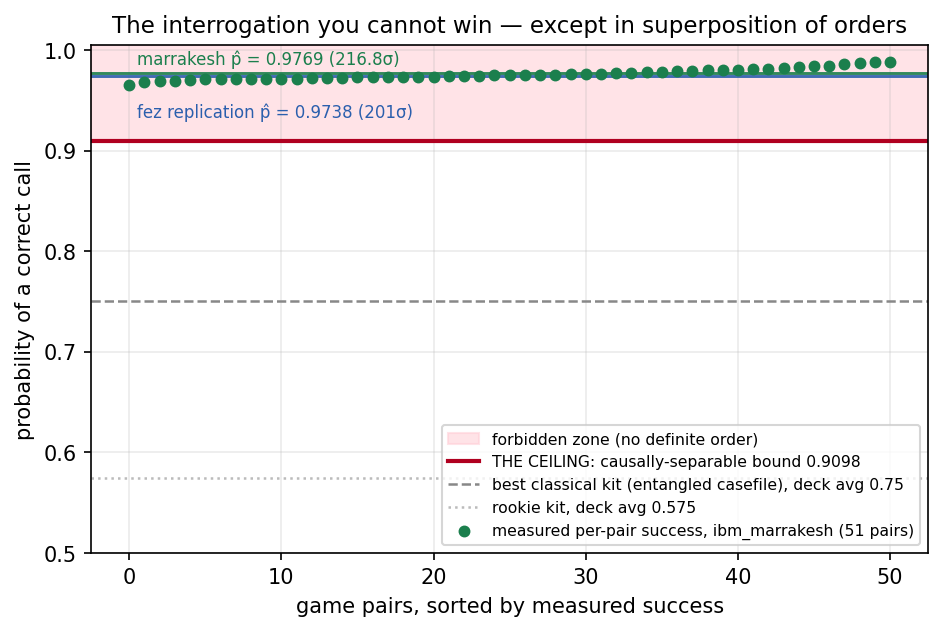
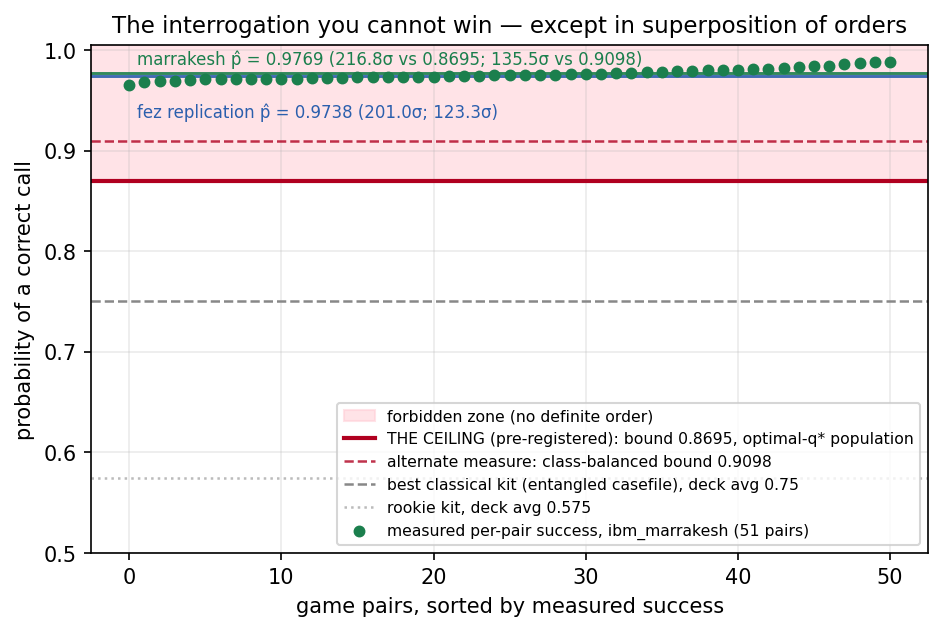
PAPER v0.4 (Whisper C4587): Elder C6443 hinge-review blockers resolved. BLOCKER 1: ONE operative ceiling — pre-registered 0.8695 (optimal-q* population) everywhere; class-balanced 0.9098 demoted to explicit alternate measure with margins vs BOTH (marrakesh 216.8sigma/135.5sigma, fez 201.0/123.3, scr

Changed region(s): [[0.3383, 0.6323, 0.9841, 0.8732], [0.0923, 0.1506, 0.9841, 0.3011], [0.4305, 0.0602, 0.6766, 0.1204]]

diff --git a/scripts/generate_figures.py b/scripts/generate_figures.py
@@ -457,27 +457,33 @@ def fig_15_causal_game_ceiling():
     """F82 (Exp105/105b): the causal-game ceiling and the measured forbidden zone.
     Per-pair points from results/exp105_hw_results.json (job d9826lkqp3as739sd2lg);
     fez replicate p_hat from exp105b (d982qssqp3as739sdmmg); classical-kit deck
-    averages computed at C4541 (theory); ceiling = class-balanced causally-separable
-    bound 0.9098 (SDP, re-derived C4524; optimal-q* game graded vs 0.8695)."""
+    averages computed at C4541 (theory). ONE operative ceiling (Elder C6443 blocker
+    fix, C4587): pre-registered 0.8695 (optimal-q* population, SDP optimum 0.869028);
+    class-balanced 0.9098 shown as SECONDARY alternate. Sigma vs both per line
+    (marrakesh 216.8/135.5; fez 201.0/123.3 — from recorded se_w, script-computed)."""
     import json as _json
     rows = _json.load(open(os.path.join(OUT, "..", "results",
                                         "exp105_hw_results.json")))["rows"]
     succ = sorted((r["p_plus"] if r["commuting"] else 1 - r["p_plus"])
                   for r in rows if r["kind"] == "game")
     fig, ax = plt.subplots(figsize=(7.2, 4.4))
-    ax.axhspan(0.9098, 1.005, color="#ffccd5", alpha=0.55, zorder=0,
+    ax.axhspan(0.8695, 1.005, color="#ffccd5", alpha=0.55, zorder=0,
                label="forbidden zone (no definite order)")
-    ax.axhline(0.9098, color="#b00020", lw=2,
-               label="THE CEILING: causally-separable bound 0.9098")
+    ax.axhline(0.8695, color="#b00020", lw=2,
+               label="THE CEILING (pre-registered): bound 0.8695, optimal-q* population")
+    ax.axhline(0.9098, color="#b00020", ls="--", lw=1.2, alpha=0.8,
+               label="alternate measure: class-balanced bound 0.9098")
     ax.axhline(0.75, color="#888", ls="--", lw=1.2,
                label="best classical kit (entangled casefile), deck avg 0.75")
     ax.axhline(0.575, color="#bbb", ls=":", lw=1.2, label="rookie kit, deck avg 0.575")
     ax.scatter(range(len(succ)), succ, s=22, color="#1b7f4d", zorder=3,
                label="measured per-pair success, ibm_marrakesh (51 pairs)")
     ax.axhline(0.976931, color="#1b7f4d", lw=1.4, alpha=0.9)
-    ax.text(0.5, 0.9860, "marrakesh p̂ = 0.9769 (216.8σ)", fontsize=8, color="#1b7f4d")
+    ax.text(0.5, 0.9860, "marrakesh p̂ = 0.9769 (216.8σ vs 0.8695; 135.5σ vs 0.9098)",
+            fontsize=8, color="#1b7f4d")
     ax.axhline(0.973786, color="#2b5fad", lw=1.4, alpha=0.9)
-    ax.text(0.5, 0.9330, "fez replication p̂ = 0.9738 (201σ)", fontsize=8, color="#2b5fad")
+    ax.text(0.5, 0.9330, "fez replication p̂ = 0.9738 (201.0σ; 123.3σ)",
+            fontsize=8, color="#2b5fad")
     ax.set_xlabel("game pairs, sorted by measured success")
     ax.set_ylabel("probability of a correct call")
     ax.set_ylim(0.5, 1.005)

diff --git a/docs/pearl-bridge-paper-draft.md b/docs/pearl-bridge-paper-draft.md
@@ -1,8 +1,13 @@
 # Causal Structure Beyond the Ladder: Hardware Experiments Where do-Calculus Has No Input
 
-**DRAFT v0.3 (Whisper C4549, 2026-07-10) — ALL SECTIONS DRAFTED (§1–§7); figures fig15/fig16
-rendered; remaining: sibling review of the §5 hinge arms, related-work polish, venue call. Outline: `pearl-bridge-paper-outline-whisper-c4533.md`. Audience:
-causal-inference (UAI / Journal of Causal Inference / perspective venue).**
+**DRAFT v0.4 (Whisper C4587, 2026-07-12) — Elder C6443 hinge-review blockers resolved: ONE
+operative ceiling (pre-registered 0.8695; class-balanced 0.9098 demoted to alternate measure,
+both σ quoted; fig15 relabeled), σ provenance disclosed (weighted-SE formula, stat-only AND
+systematic-inflated margins, error-model-robustness stated from the apparatus's own controls),
+N=3 scope sentence, F80 phrasing trimmed, cross-device subtraction explicit. Prior: v0.3 C4549
+(all sections drafted). Outline: `pearl-bridge-paper-outline-whisper-c4533.md`. Audience:
+causal-inference (UAI / Journal of Causal Inference / perspective venue). Remaining: Elder
+re-review, related-work polish, venue call.**
 
 > **Abstract (working).** Pearl's ladder of causation rests on an assumption it never needs to
 > state: that there *is* a definite causal structure — every structural causal model fixes an
@@ -95,7 +100,7 @@ then reproduced not a number but a *law*: dialing the coherence of the order-con
 angle φ traces DISC(φ) = 2·cos(φ/2) with Pearson correlation 0.9992 (F76) — causal definiteness
 behaves as a continuous resource, and its φ = π endpoint doubles as the classical mixture,
 closing the loop between the two devices. One proposed corroboration — an "independent" fit of
-the data to classical DAG families — was retracted by its own author before running, after
+the data to classical DAG families — was retracted before running, after
 proving to be an exact rescaling of the witness itself (F80); we keep the retraction in the
 record because a test that cannot fail proves nothing, and the discipline is part of the result.
 
@@ -131,14 +136,33 @@ computed on someone else's population.
 The hardware protocol was frozen before data: fifty-one game circuits sharing one identical
 compiled skeleton (after a review catch in which the transpiler silently optimized away the
 padding that guaranteed pair-independence), sentinel circuits at the start, middle, and end of
-the batch, a definite-order null arm, and a grading rule fixed to the constant 0.8695. The
-switch scored p̂ = 0.9769 ± 0.0005 — 216.8σ above the ceiling — while the null arm scored
-0.6146, statistically indistinguishable from the game's class prior of 0.6165: on the same chip,
-in the same window, a definite order buys exactly what Pearl says it buys, and nothing more.
-The following day the identical frozen design ran on a second processor with no prior history of
-switch circuits and returned p̂ = 0.9738 — a 0.3-percentage-point concordance across devices,
-same verdict, 201σ. (Figure: fig15 — the per-pair measured successes sitting wholly inside the
-forbidden zone above the ceiling, with the classical kits' averages below it.)
+the batch, a definite-order null arm, and a grading rule fixed to the constant 0.8695 — the
+**one operative ceiling** in this paper, pre-registered before data, set marginally above the
+re-derived SDP optimum 0.869028 for the optimal input distribution q\*. Because §3's own lesson
+is that the classical optimum is a function of the input distribution, we note the alternate
+measure explicitly: under a class-balanced prior over the same ten operations the bound is
+instead 0.9098. We quote margins against both; grading uses only the frozen 0.8695.
+
+The switch scored p̂ = 0.9769, weighted standard error 0.000495 — the SE of the q\*-weighted
+success estimator, binomial pooling across the 51 pair-circuits; σ values are computed from the
+unrounded SE (the display-rounded ±0.0005 would misreport the headline as 214.9σ) — placing it
+**216.8σ above the operative ceiling** (135.5σ above the class-balanced alternate). The null
+arm scored 0.6146, statistically indistinguishable from the game's class prior of 0.6165: on
+the same chip, in the same window, a definite order buys exactly what Pearl says it buys, and
+nothing more. The following day the identical frozen design ran on a second processor with no
+prior history of switch circuits and returned p̂ = 0.9738 (SE 0.00052) — a cross-device
+discrepancy of 0.9769 − 0.9738 = 0.0031 — same verdict: 201.0σ above the operative ceiling
+(123.3σ above the alternate).
+
+These margins are statistical. Rather than assert that systematics vanish, we bound them with
+the apparatus's own measurements: the two empirical scales for unmodeled effects on score-type
+observables here are the cross-device discrepancy (0.0031) and the null arm's deviation from
+its predicted prior (0.0019). The measured excess above the operative ceiling, 0.1074, is 35×
+the first and 57× the second; an error model that treats the entire cross-device discrepancy
+as a one-σ systematic still leaves the margin at 34σ. No error model constructible from this
+apparatus's own control measurements brings the verdict into question. (Figure: fig15 — the
+per-pair measured successes sitting wholly inside the forbidden zone above the operative
+ceiling, with the class-balanced alternate marked as a secondary line.)
 
 ## §4. Information through causally-forbidden structure
 
@@ -151,6 +175,9 @@ inequality in the paper: the entire causally separable set sits at a single poin
 
 On hardware, the switch of two such channels transmitted 0.0436 ± 0.0005 bits per use — 55.6σ
 from zero — with the definite-order null arm measuring 0.00012 bits (the theorem, on a chip).
+The capacity margins carry the same proviso as §3's: they are statistical, and the executed
+null arm doubles as the empirical systematic floor — the switch value is 363× the null arm's
+0.00012 bits, so no systematic at the scale the apparatus itself exhibits threatens the verdict.
 The pre-registered signature is the part we most want causal-inference readers to see: the
 *target alone* remains exactly depolarized even in the switch configuration (measured
 D = +0.004). All of the transmitted information lives in the correlation between the message
@@ -163,7 +190,9 @@ Scaling the switch to three channels in a superposition of the three cyclic orde
 whether the resource grows. In theory it does: the ideal transmitted information rises from
 0.0489 to 0.0833 bits. On hardware the experiment won again — 0.0260 bits, 61.7σ from the
 causal zero — but *less* than the two-channel result: the deeper circuit (110 versus 4
-entangling gates) costs more fidelity than the larger superposition gains. Theory scales;
+entangling gates) costs more fidelity than the larger superposition gains. What the N=3 result
+establishes is that the resource remains above zero at three channels — not that it scales
+positively on this hardware. Theory scales;
 practice inverts; both facts were measured under a single pre-registration, and the inversion
 is the more useful number, because it locates the current hardware generation's frontier
 (Figure: fig16 — the capacity ladder with the inversion annotated). The run also field-tested a
@@ -311,6 +340,7 @@ account) are public in the project repository.
 ---
 
 *Figures planned: (i) the hinge table above as the central figure; (ii) the ceiling plot —
-classical kits converging under 0.9098, switch column above it, per-case measured points;
+operative pre-registered ceiling 0.8695 with the class-balanced alternate 0.9098 as a
+secondary line, classical kits below, per-case measured points in the forbidden zone (fig15);
 (iii) DISC(φ)=2cos(φ/2) (exists, fig12); (iv) capacity ladder N=1(=0)/N=2/N=3 ideal-vs-measured
 showing the inversion.*
